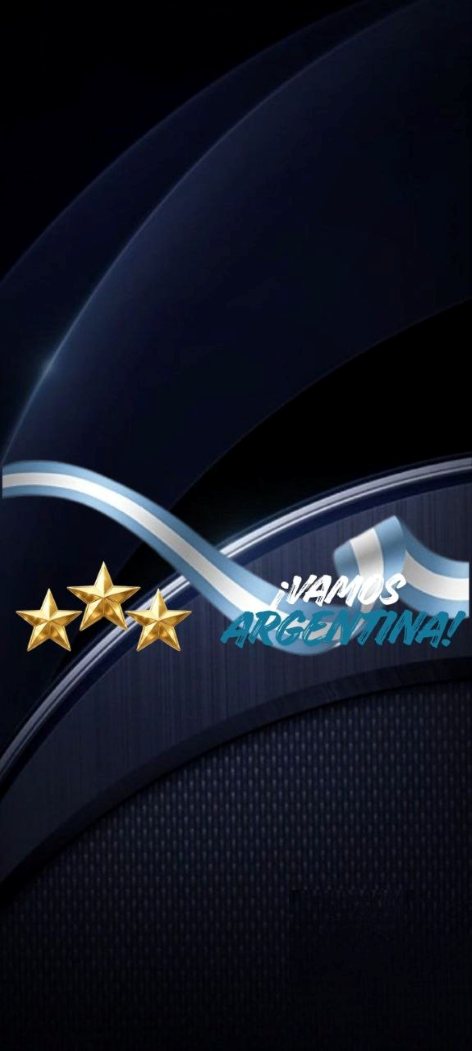
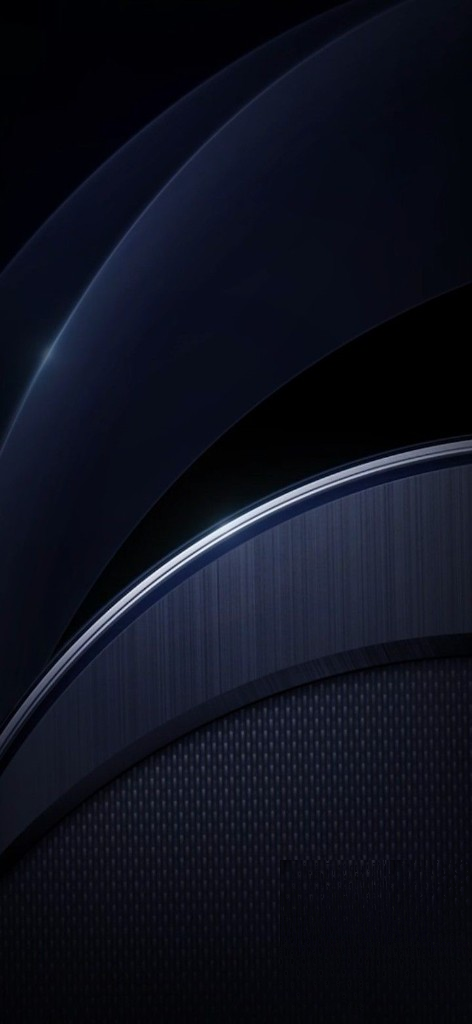
v1.5.1: totales mensuales, descartar todo admin y fallback home.png.
Mejora fondo home sin internet y panel de revision con descarte masivo.

diff --git a/app/revision-productos.tsx b/app/revision-productos.tsx
@@ -11,6 +11,7 @@ import {
   TextInput,
   KeyboardAvoidingView,
   Platform,
+  Alert,
 } from 'react-native';
 
 import { useRouter } from 'expo-router';
@@ -24,6 +25,7 @@ import {
   applyAllPendingReviewItems,
   applyPendingReviewItem,
   describePendingUserProposal,
+  dismissAllPendingReviewItems,
   dismissPendingReviewItem,
   getPendingReviewDisplayName,
   listConfirmedReviewProducts,
@@ -42,12 +44,15 @@ function createRevisionStyles(m: ScaledMenuMetrics) {
   return StyleSheet.create({
     toolbar: {
       flexDirection: 'row',
+      flexWrap: 'wrap',
       alignItems: 'center',
       gap: m.spacingSm,
       marginBottom: m.spacingSm,
     },
     applyAllBtn: {
-      flex: 1,
+      flexGrow: 1,
+      flexShrink: 1,
+      minWidth: '46%',
       flexDirection: 'row',
       alignItems: 'center',
       justifyContent: 'center',
@@ -56,6 +61,24 @@ function createRevisionStyles(m: ScaledMenuMetrics) {
       borderRadius: radii.md,
       paddingVertical: 10,
       paddingHorizontal: m.spacingMd,
+    },
+    dismissAllBtn: {
+      flexGrow: 1,
+      flexShrink: 1,
+      minWidth: '46%',
+      flexDirection: 'row',
+      alignItems: 'center',
+      justifyContent: 'center',
+      gap: 6,
+      backgroundColor: '#DC2626',
+      borderRadius: radii.md,
+      paddingVertical: 10,
+      paddingHorizontal: m.spacingMd,
+    },
+    dismissAllText: {
+      color: '#FFFFFF',
+      fontSize: m.caption,
+      fontWeight: '800',
     },
     applyAllText: {
       color: '#FFFFFF',
@@ -305,6 +328,7 @@ export default function RevisionProductosScreen() {
   const [loading, setLoading] = useState(true);
   const [applyingId, setApplyingId] = useState<string | null>(null);
   const [applyingAll, setApplyingAll] = useState(false);
+  const [dismissingAll, setDismissingAll] = useState(false);
   const [dismissingId, setDismissingId] = useState<string | null>(null);
   const [editingItem, setEditingItem] = useState<PendingReviewItem | null>(null);
   const [savingEdit, setSavingEdit] = useState(false);
@@ -368,7 +392,7 @@ export default function RevisionProductosScreen() {
 
   const handleDismiss = useCallback(
     async (item: PendingReviewItem) => {
-      if (dismissingId || applyingId || applyingAll) return;
+      if (dismissingId || dismissingAll || applyingId || applyingAll) return;
 
       setDismissingId(item.id);
       setFeedback(null);
@@ -384,7 +408,7 @@ export default function RevisionProductosScreen() {
       setPending((current) => current.filter((row) => row.id !== item.id));
       setFeedback(`Pedido descartado: EAN ${item.ean}.`);
     },
-    [applyingAll, applyingId, dismissingId]
+    [applyingAll, applyingId, dismissingAll, dismissingId]
   );
 
   const handleEditSaved = useCallback(
@@ -416,6 +440,39 @@ export default function RevisionProductosScreen() {
     []
   );
 
+  const handleDismissAll = useCallback(async () => {
+    if (dismissingAll || applyingAll || applyingId || pending.length === 0) return;
+
+    Alert.alert(
+      'Descartar todo',
+      `¿Descartar los ${pending.length} pedidos pendientes? Esta acción no se puede deshacer.`,
+      [
+        { text: 'Cancelar', style: 'cancel' },
+        {
+          text: 'Descartar todo',
+          style: 'destructive',
+          onPress: () => {
+            void (async () => {
+              setDismissingAll(true);
+              setFeedback(null);
+
+              const snapshot = [...pending];
+              const { dismissed, failed } = await dismissAllPendingReviewItems(snapshot);
+
+              await refresh();
+              setDismissingAll(false);
+              setFeedback(
+                failed > 0
+                  ? `Descartados: ${dismissed}. Fallidos: ${failed}.`
+                  : `Se descartaron ${dismissed} pedidos pendientes.`
+              );
+            })();
+          },
+        },
+      ]
+    );
+  }, [applyingAll, applyingId, dismissingAll, pending, refresh]);
+
   const handleApplyAll = useCallback(async () => {
     if (applyingAll || applyingId || pending.length === 0) return;
 
@@ -445,11 +502,11 @@ export default function RevisionProductosScreen() {
           accessibilityRole="button"
           accessibilityLabel="Aplicar todas las asociaciones pendientes"
           onPress={withClickSound(() => void handleApplyAll())}
-          disabled={applyingAll || pending.length === 0}
+          disabled={applyingAll || dismissingAll || pending.length === 0}
           style={({ pressed }) => [
             styles.applyAllBtn,
-            pressed && !applyingAll && styles.pressed,
-            (applyingAll || pending.length === 0) && styles.disabled,
+            pressed && !applyingAll && !dismissingAll && styles.pressed,
+            (applyingAll || dismissingAll || pending.length === 0) && styles.disabled,
           ]}
         >
           {applyingAll ? (
@@ -459,6 +516,27 @@ export default function RevisionProductosScreen() {
           )}
           <Text style={styles.applyAllText}>
             {applyingAll ? 'Aplicando…' : 'Aplicar Todo'}
+          </Text>
+        </Pressable>
+
+        <Pressable
+          accessibilityRole="button"
+          accessibilityLabel="Descartar todos los pedidos pendientes"
+          onPress={withClickSound(() => void handleDismissAll())}
+          disabled={dismissingAll || applyingAll || pending.length === 0}
+          style={({ pressed }) => [
+            styles.dismissAllBtn,
+            pressed && !dismissingAll && !applyingAll && styles.pressed,
+            (dismissingAll || applyingAll || pending.length === 0) && styles.disabled,
+          ]}
+        >
+          {dismissingAll ? (
+            <ActivityIndicator size="small" color="#FFFFFF" />
+          ) : (
+            <Ionicons name="trash-outline" size={18} color="#FFFFFF" />
+          )}
+          <Text style={styles.dismissAllText}>
+            {dismissingAll ? 'Descartando…' : 'Descartar Todo'}
           </Text>
         </Pressable>
 

diff --git a/src/components/home/HomeTexturedBackground.tsx b/src/components/home/HomeTexturedBackground.tsx
@@ -1,11 +1,11 @@
-import type { ReactNode } from 'react';
+import { useEffect, useState, type ReactNode } from 'react';
 
 import { ImageBackground, StyleSheet } from 'react-native';
 
 import { useHomeBackground } from '@/hooks/useHomeBackground';
 import { isValidHttpUrl } from '@/utils/validateBannerUrl';
 
-/** Fallback local si el Gist no trae URL o falla la red. */
+/** Fondo original embebido: se usa sin internet o si falla la imagen del Gist. */
 export const HOME_SCREEN_BACKGROUND_FALLBACK = require('../../../assets/home.png');
 
 interface HomeTexturedBackgroundProps {
@@ -15,9 +15,16 @@ interface HomeTexturedBackgroundProps {
 
 export function HomeTexturedBackground({ children, paddingTop = 0 }: HomeTexturedBackgroundProps) {
   const { homeBackgroundUrl } = useHomeBackground();
+  const hasRemoteUrl = isValidHttpUrl(homeBackgroundUrl) && Boolean(homeBackgroundUrl);
+  const [remoteFailed, setRemoteFailed] = useState(false);
 
+  useEffect(() => {
+    setRemoteFailed(false);
+  }, [homeBackgroundUrl]);
+
+  const useRemote = hasRemoteUrl && !remoteFailed;
   const source =
-    isValidHttpUrl(homeBackgroundUrl) && homeBackgroundUrl
+    useRemote && homeBackgroundUrl
       ? { uri: homeBackgroundUrl.trim() }
       : HOME_SCREEN_BACKGROUND_FALLBACK;
 
@@ -27,6 +34,7 @@ export function HomeTexturedBackground({ children, paddingTop = 0 }: HomeTexture
       style={[styles.root, { paddingTop }]}
       imageStyle={styles.backgroundImage}
       resizeMode="cover"
+      onError={() => setRemoteFailed(true)}
     >
       {children}
     </ImageBackground>

diff --git a/src/components/history/HistoricoTickets.tsx b/src/components/history/HistoricoTickets.tsx
@@ -100,6 +100,30 @@ export function HistoricoTickets({ purchases }: HistoricoTicketsProps) {
           color: homeColors.neonBlue,
           marginTop: 6,
         },
+        monthTotalRow: {
+          flexDirection: 'row',
+          alignItems: 'center',
+          justifyContent: 'space-between',
+          marginTop: m.spacingSm,
+          paddingTop: m.spacingSm,
+          paddingHorizontal: m.spacingSm,
+          paddingBottom: m.spacingXs,
+          borderRadius: radii.md,
+          borderWidth: 1,
+          borderColor: homeColors.border,
+          backgroundColor: 'rgba(0, 229, 255, 0.08)',
+        },
+        monthTotalLabel: {
+          flex: 1,
+          fontSize: m.body,
+          fontWeight: '800',
+          color: homeColors.text,
+        },
+        monthTotalAmount: {
+          fontSize: m.title,
+          fontWeight: '900',
+          color: homeColors.neonBlue,
+        },
         emptyTitle: {
           marginTop: m.spacingSm,
         },
@@ -182,6 +206,15 @@ export function HistoricoTickets({ purchases }: HistoricoTicketsProps) {
               </Pressable>
             );
           })}
+
+          <View style={styles.monthTotalRow}>
+            <Text style={styles.monthTotalLabel}>
+              Total mes {group.monthName}
+            </Text>
+            <Text style={styles.monthTotalAmount}>
+              {formatCurrency(group.monthTotal)}
+            </Text>
+          </View>
         </View>
       ))}
     </View>

diff --git a/src/utils/groupPurchasesByMonth.ts b/src/utils/groupPurchasesByMonth.ts
@@ -3,7 +3,9 @@ import type { CompletedPurchaseRecord } from '@/db/database';
 export interface PurchaseMonthGroup {
   key: string;
   label: string;
+  monthName: string;
   purchases: CompletedPurchaseRecord[];
+  monthTotal: number;
 }
 
 const MONTH_NAMES = [
@@ -43,13 +45,16 @@ export function groupPurchasesByMonth(
     const existing = groups.get(key);
     if (existing) {
       existing.purchases.push(purchase);
+      existing.monthTotal += purchase.total;
       continue;
     }
 
     groups.set(key, {
       key,
       label: monthLabel(date),
+      monthName: MONTH_NAMES[date.getMonth()] ?? '',
       purchases: [purchase],
+      monthTotal: purchase.total,
     });
   }
 

diff --git a/src/services/pendingProductsAdmin.ts b/src/services/pendingProductsAdmin.ts
@@ -283,6 +283,24 @@ export async function markPendingProductLinked(payload: {
   }
 }
 
+export async function dismissAllPendingReviewItems(
+  items: PendingReviewItem[]
+): Promise<{ dismissed: number; failed: number }> {
+  let dismissed = 0;
+  let failed = 0;
+
+  for (const item of items) {
+    const ok = await dismissPendingReviewItem(item);
+    if (ok) {
+      dismissed += 1;
+    } else {
+      failed += 1;
+    }
+  }
+
+  return { dismissed, failed };
+}
+
 export async function applyAllPendingReviewItems(
   items: PendingReviewItem[]
 ): Promise<{ applied: number; failed: number }> {
